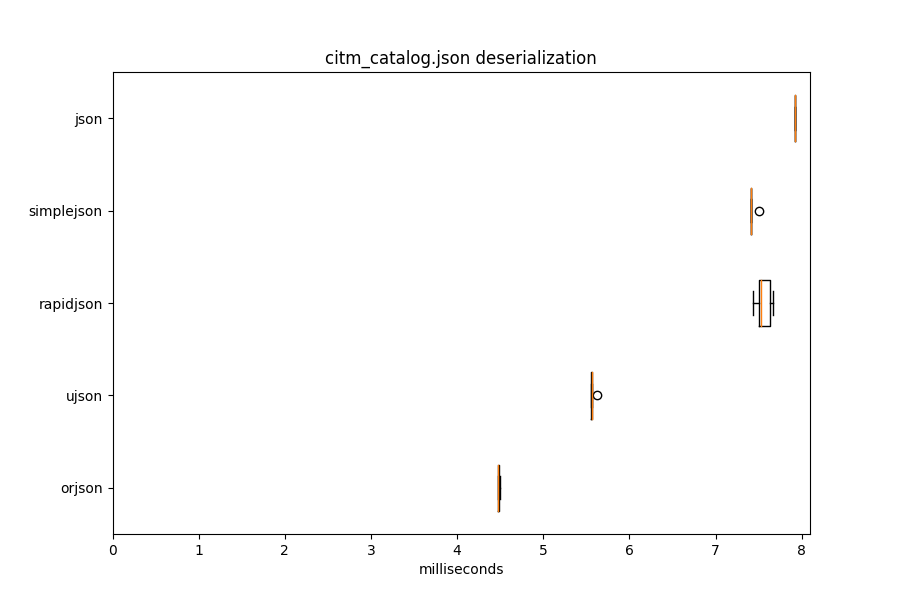
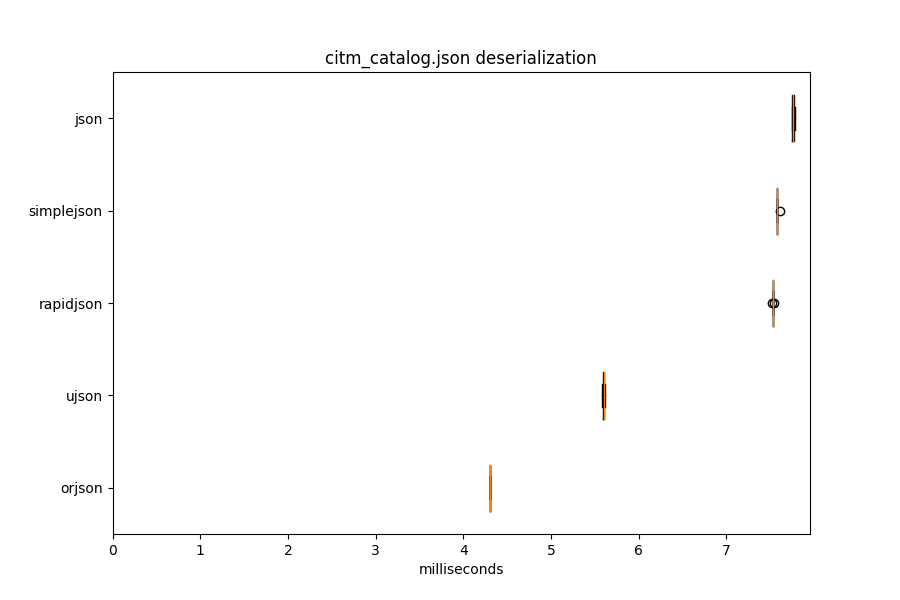
3.2.1

diff --git a/README.md b/README.md
@@ -921,81 +921,81 @@ format, containing floats and arrays, indented.
 
 | Library    |   Median latency (milliseconds) |   Operations per second |   Relative (latency) |
 |------------|---------------------------------|-------------------------|----------------------|
-| orjson     |                            0.58 |                  1706.8 |                 1    |
-| ujson      |                            2.09 |                   473   |                 3.58 |
-| rapidjson  |                            2.47 |                   403.4 |                 4.23 |
-| simplejson |                            3.22 |                   308.5 |                 5.51 |
-| json       |                            3.33 |                   300   |                 5.69 |
+| orjson     |                            0.58 |                  1734   |                 1    |
+| ujson      |                            2.11 |                   472.8 |                 3.66 |
+| rapidjson  |                            2.38 |                   419.1 |                 4.13 |
+| simplejson |                            3.32 |                   301.1 |                 5.75 |
+| json       |                            3.34 |                   299.4 |                 5.78 |
 
 #### twitter.json deserialization
 
 | Library    |   Median latency (milliseconds) |   Operations per second |   Relative (latency) |
 |------------|---------------------------------|-------------------------|----------------------|
-| orjson     |                            2.61 |                   383   |                 1    |
-| ujson      |                            2.83 |                   353   |                 1.09 |
-| rapidjson  |                            3.75 |                   266.8 |                 1.44 |
-| simplejson |                            3.26 |                   306.8 |                 1.25 |
-| json       |                            3.79 |                   263.8 |                 1.45 |
+| orjson     |                            2.43 |                   411.8 |                 1    |
+| ujson      |                            2.91 |                   344.1 |                 1.2  |
+| rapidjson  |                            3.84 |                   259.8 |                 1.58 |
+| simplejson |                            3.59 |                   277.1 |                 1.48 |
+| json       |                            4.18 |                   239.3 |                 1.72 |
 
 #### github.json serialization
 
 | Library    |   Median latency (milliseconds) |   Operations per second |   Relative (latency) |
 |------------|---------------------------------|-------------------------|----------------------|
-| orjson     |                            0.07 |                 14806.2 |                 1    |
-| ujson      |                            0.21 |                  4850   |                 3.05 |
-| rapidjson  |                            0.27 |                  3746.4 |                 3.94 |
-| simplejson |                            0.45 |                  2221.1 |                 6.66 |
-| json       |                            0.36 |                  2749.4 |                 5.38 |
+| orjson     |                            0.06 |                 15386.9 |                 1    |
+| ujson      |                            0.22 |                  4578.4 |                 3.36 |
+| rapidjson  |                            0.26 |                  3845.2 |                 4    |
+| simplejson |                            0.44 |                  2272.3 |                 6.78 |
+| json       |                            0.35 |                  2844.6 |                 5.4  |
 
 #### github.json deserialization
 
 | Library    |   Median latency (milliseconds) |   Operations per second |   Relative (latency) |
 |------------|---------------------------------|-------------------------|----------------------|
-| orjson     |                            0.22 |                  4617.1 |                 1    |
-| ujson      |                            0.27 |                  3715.6 |                 1.25 |
-| rapidjson  |                            0.31 |                  3189.1 |                 1.45 |
-| simplejson |                            0.29 |                  3505.5 |                 1.32 |
-| json       |                            0.32 |                  3161.7 |                 1.46 |
+| orjson     |                            0.2  |                  5094.7 |                 1    |
+| ujson      |                            0.29 |                  3491.9 |                 1.46 |
+| rapidjson  |                            0.33 |                  3033   |                 1.68 |
+| simplejson |                            0.29 |                  3501.7 |                 1.46 |
+| json       |                            0.3  |                  3326.7 |                 1.53 |
 
 #### citm_catalog.json serialization
 
 | Library    |   Median latency (milliseconds) |   Operations per second |   Relative (latency) |
 |------------|---------------------------------|-------------------------|----------------------|
-| orjson     |                            1    |                  1005   |                 1    |
-| ujson      |                            3.63 |                   275.6 |                 3.64 |
-| rapidjson  |                            3.5  |                   287.1 |                 3.51 |
-| simplejson |                           10.98 |                    89.8 |                11.04 |
-| json       |                            6.95 |                   141.4 |                 6.98 |
+| orjson     |                            1.01 |                   993.3 |                 1    |
+| ujson      |                            3.65 |                   274.2 |                 3.62 |
+| rapidjson  |                            3.56 |                   281   |                 3.54 |
+| simplejson |                           11.5  |                    86.2 |                11.43 |
+| json       |                            6.92 |                   144.3 |                 6.87 |
 
 #### citm_catalog.json deserialization
 
 | Library    |   Median latency (milliseconds) |   Operations per second |   Relative (latency) |
 |------------|---------------------------------|-------------------------|----------------------|
-| orjson     |                            4.48 |                   223.1 |                 1    |
-| ujson      |                            5.57 |                   179.4 |                 1.24 |
-| rapidjson  |                            7.52 |                   132.4 |                 1.68 |
-| simplejson |                            7.41 |                   134.6 |                 1.65 |
-| json       |                            7.92 |                   126.2 |                 1.77 |
+| orjson     |                            4.31 |                   232.2 |                 1    |
+| ujson      |                            5.6  |                   178.6 |                 1.3  |
+| rapidjson  |                            7.53 |                   132.8 |                 1.75 |
+| simplejson |                            7.58 |                   131.9 |                 1.76 |
+| json       |                            7.75 |                   128.9 |                 1.8  |
 
 #### canada.json serialization
 
 | Library    |   Median latency (milliseconds) |   Operations per second |   Relative (latency) |
 |------------|---------------------------------|-------------------------|----------------------|
-| orjson     |                            4.61 |                   217.1 |                 1    |
-| ujson      |                           19.2  |                    53.2 |                 4.17 |
-| rapidjson  |                           60.74 |                    16.4 |                13.19 |
-| simplejson |                           78.13 |                    12.7 |                16.97 |
-| json       |                           62.48 |                    16   |                13.57 |
+| orjson     |                            4.64 |                   215.5 |                 1    |
+| ujson      |                           19.64 |                    51.5 |                 4.23 |
+| rapidjson  |                           61.51 |                    16.3 |                13.26 |
+| simplejson |                           80.02 |                    12.5 |                17.25 |
+| json       |                           61.46 |                    16.3 |                13.25 |
 
 #### canada.json deserialization
 
 | Library    |   Median latency (milliseconds) |   Operations per second |   Relative (latency) |
 |------------|---------------------------------|-------------------------|----------------------|
-| orjson     |                            9.95 |                   100.9 |                 1    |
-| ujson      |                           15.73 |                    63.7 |                 1.58 |
-| rapidjson  |                           37.59 |                    26.6 |                 3.78 |
-| simplejson |                           36.12 |                    27.7 |                 3.63 |
-| json       |                           37.66 |                    26.6 |                 3.79 |
+| orjson     |                            9.82 |                   102   |                 1    |
+| ujson      |                           16.56 |                    60.5 |                 1.69 |
+| rapidjson  |                           38.17 |                    26.1 |                 3.89 |
+| simplejson |                           37.11 |                    26.9 |                 3.78 |
+| json       |                           37.98 |                    27.1 |                 3.87 |
 
 ### Memory
 
@@ -1048,8 +1048,8 @@ calling `loads()` on the fixture.
 
 ### Reproducing
 
-The above was measured using Python 3.8.2 on Linux (x86_64) with
-orjson 3.0.0, ujson 2.0.3, python-rapidson 0.9.1, and simplejson 3.17.0.
+The above was measured using Python 3.8.3 on Linux (x86_64) with
+orjson 3.2.1, ujson 3.0.0, python-rapidson 0.9.1, and simplejson 3.17.0.
 
 The latency results can be reproduced using the `pybench` and `graph`
 scripts. The memory results can be reproduced using the `pymem` script.

diff --git a/CHANGELOG.md b/CHANGELOG.md
@@ -1,5 +1,11 @@
 # Changelog
 
+## 3.2.1 - 2020-07-03
+
+### Fixed
+
+- Fix `orjson.dumps(..., **{})` raising `TypeError` on python3.6.
+
 ## 3.2.0 - 2020-06-30
 
 ### Added
